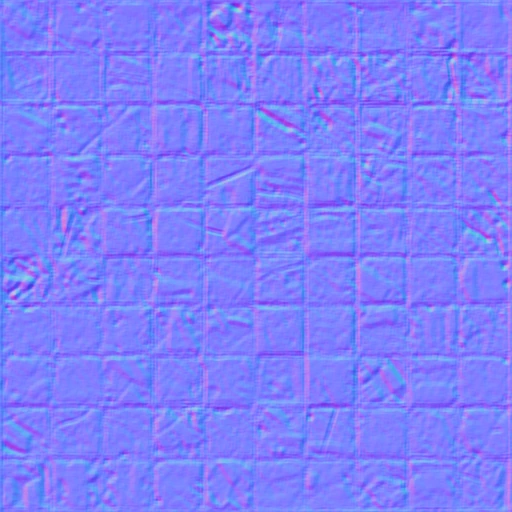
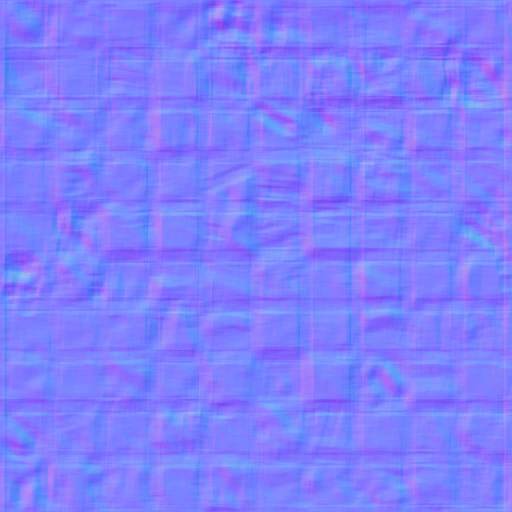
Raise bump to a strength the player can actually see, and add a ?bump=N control
The owner asked whether bump mapping is active at all, so it was measured in the running game rather than in a test page. It is active and the framebuffer responds: in the crypt at depth 1, strength 0 versus 8 changes 3.85% of pixels on average with 26% of texels moving by more than 5%. But the shipped 1.4 changed 0.03% of the frame, which is not 'subtle', it is absent — the reason it was reported invisible twice.

Default raised to 3.0, chosen from the curve rather than by eye: 4 gives 3.46% of the frame and 8 gives 3.95%, so returns flatten just past 4 and 3.0 sits where the relief reads clearly without the masonry looking stamped. ?bump=N on the URL re-scales every surface in place, so the same corridor can be loaded at 0 and at 8 for comparison. CFG.bumpScale is read when materials are built, not captured at import, because the query parameter is applied after the modules have loaded.
[…]

diff --git a/src/world/propMeshes.js b/src/world/propMeshes.js
@@ -44,7 +44,7 @@ function tex(key, rx = 1, ry = rx) {
 // normals/door_oak) and returns null when there is none, so a prop is built exactly as
 // before. The normal already arrives as the mirrored composite, which is what stops seams
 // showing on the four faces of a column.
-const BUMP_SCALE = 1.4;
+const bumpVec = () => new THREE.Vector2(CFG.bumpScale, CFG.bumpScale);   // read at build time; see levelView
 function nrm(key, rx = 1, ry = rx) {
   if (!hasNormalFor(key)) return null;
   const ck = `nrm:${key}@${rx},${ry}`;
@@ -95,27 +95,27 @@ function mat(key, make) {
 
 const M = {
   wood: () => mat('wood', () => new THREE.MeshStandardMaterial({
-    color: 0x8a6a44, roughness: 0.82, metalness: 0.02, map: tex('textures/door_oak'), normalMap: nrm('textures/door_oak'), roughnessMap: rm('textures/door_oak'), normalScale: new THREE.Vector2(BUMP_SCALE, BUMP_SCALE)
+    color: 0x8a6a44, roughness: 0.82, metalness: 0.02, map: tex('textures/door_oak'), normalMap: nrm('textures/door_oak'), roughnessMap: rm('textures/door_oak'), normalScale: bumpVec()
   })),
   woodPlain: () => mat('woodPlain', () => new THREE.MeshStandardMaterial({ color: 0x9a7a52, roughness: 0.86, metalness: 0.02 })),
   iron: () => mat('iron', () => new THREE.MeshStandardMaterial({ color: 0x6b7076, roughness: 0.68, metalness: 0.22 })),
   stone: (biome) => mat(`stone:${biome.wall}`, () => new THREE.MeshStandardMaterial({
-    color: 0x9a958c, roughness: 0.9, metalness: 0.04, map: tex(`textures/${biome.wall}`), normalMap: nrm(`textures/${biome.wall}`), roughnessMap: rm(`textures/${biome.wall}`), normalScale: new THREE.Vector2(BUMP_SCALE, BUMP_SCALE)
+    color: 0x9a958c, roughness: 0.9, metalness: 0.04, map: tex(`textures/${biome.wall}`), normalMap: nrm(`textures/${biome.wall}`), roughnessMap: rm(`textures/${biome.wall}`), normalScale: bumpVec()
   })),
   // uprights and lintels: repeat the wall tile along V so it keeps its aspect
   stoneTall: (biome) => mat(`stoneTall:${biome.wall}`, () => new THREE.MeshStandardMaterial({
-    color: 0x9a958c, roughness: 0.9, metalness: 0.04, map: tex(`textures/${biome.wall}`, 1, 3), normalMap: nrm(`textures/${biome.wall}`, 1, 3), roughnessMap: rm(`textures/${biome.wall}`, 1, 3), normalScale: new THREE.Vector2(BUMP_SCALE, BUMP_SCALE)
+    color: 0x9a958c, roughness: 0.9, metalness: 0.04, map: tex(`textures/${biome.wall}`, 1, 3), normalMap: nrm(`textures/${biome.wall}`, 1, 3), roughnessMap: rm(`textures/${biome.wall}`, 1, 3), normalScale: bumpVec()
   })),
   bone: () => mat('bone', () => new THREE.MeshStandardMaterial({ color: 0xd9d2bf, roughness: 0.7, metalness: 0.02 })),
   brass: () => mat('brass', () => new THREE.MeshStandardMaterial({ color: 0x8f7338, roughness: 0.5, metalness: 0.3 })),
   door: () => mat('doorSlab', () => new THREE.MeshStandardMaterial({
-    color: 0xbfae94, roughness: 0.8, metalness: 0.03, map: tex('textures/door_oak'), normalMap: nrm('textures/door_oak'), roughnessMap: rm('textures/door_oak'), normalScale: new THREE.Vector2(BUMP_SCALE, BUMP_SCALE)
+    color: 0xbfae94, roughness: 0.8, metalness: 0.03, map: tex('textures/door_oak'), normalMap: nrm('textures/door_oak'), roughnessMap: rm('textures/door_oak'), normalScale: bumpVec()
   })),
   column: () => mat('column', () => new THREE.MeshStandardMaterial({
-    color: 0xb9b3a8, roughness: 0.9, metalness: 0.03, map: tex('textures/pillar'), normalMap: nrm('textures/pillar'), roughnessMap: rm('textures/pillar'), normalScale: new THREE.Vector2(BUMP_SCALE, BUMP_SCALE)
+    color: 0xb9b3a8, roughness: 0.9, metalness: 0.03, map: tex('textures/pillar'), normalMap: nrm('textures/pillar'), roughnessMap: rm('textures/pillar'), normalScale: bumpVec()
   })),
   plinth: () => mat('plinth', () => new THREE.MeshStandardMaterial({
-    color: 0x8f8a80, roughness: 0.85, map: tex('textures/pillar', 0.5), normalMap: nrm('textures/pillar', 0.5), roughnessMap: rm('textures/pillar', 0.5), normalScale: new THREE.Vector2(BUMP_SCALE, BUMP_SCALE)
+    color: 0x8f8a80, roughness: 0.85, map: tex('textures/pillar', 0.5), normalMap: nrm('textures/pillar', 0.5), roughnessMap: rm('textures/pillar', 0.5), normalScale: bumpVec()
   })),
   plinthTop: () => mat('plinthTop', () => new THREE.MeshStandardMaterial({ color: 0x9c968b, roughness: 0.8 })),
   // Dressed stone with no map: on small blocks a wall tile stretches into something that

diff --git a/src/selftest.js b/src/selftest.js
@@ -392,6 +392,55 @@ export async function runSelfTest(game) {
     ok('the wall material carries both a normal map and a roughness map',
       Boolean(wm2 && wm2.normalMap && wm2.roughnessMap),
       wm2 ? `normal ${Boolean(wm2.normalMap)} roughness ${Boolean(wm2.roughnessMap)}` : 'no wall material found');
+
+    // "Is bump mapping active?" has two parts, and only the second is interesting. The
+    // texture has to be bound to the live material — not a placeholder that happens to be
+    // the right type — and turning it up has to change the pixels the player is actually
+    // shown. Both are measured against the running scene's own framebuffer, because a number
+    // from a purpose-built test page is not evidence about the game.
+    if (wm2 && wm2.normalMap && !game.placeholderArt) {
+      const gl = game.renderer.getContext();
+      const buf = game.renderer.domElement;
+      const w = buf.width, h = buf.height;
+      const grab = () => {
+        game.renderer.render(game.scene, game.camera);
+        const px = new Uint8Array(w * h * 4);
+        gl.readPixels(0, 0, w, h, gl.RGBA, gl.UNSIGNED_BYTE, px);
+        return px;
+      };
+      const lum = (p, i) => 0.2126 * p[i] + 0.7152 * p[i + 1] + 0.0722 * p[i + 2];
+      const saved = wm2.normalScale.x;
+      const shipped = grab();
+      wm2.normalScale.set(0, 0);
+      const off = grab();
+      wm2.normalScale.set(8, 8);
+      const maxed = grab();
+      wm2.normalScale.set(saved, saved);
+      let dMax = 0, dShip = 0, n = 0;
+      for (let i = 0; i < shipped.length; i += 4) {
+        dMax += Math.abs(lum(off, i) - lum(maxed, i));
+        dShip += Math.abs(lum(shipped, i) - lum(off, i));
+        n++;
+      }
+      ok('the bound normal map is real art, not a placeholder',
+        Boolean(wm2.normalMap.image && wm2.normalMap.image.width >= 1024),
+        `${wm2.normalMap.image && wm2.normalMap.image.width}px composite, colorSpace ${wm2.normalMap.colorSpace}`);
+      // Asserts activity, not visibility: a bound real texture whose strength moves the
+      // framebuffer at all is wired correctly. Whether the effect is big enough to notice is
+      // a separate, reported number — the shipped strength moves a few hundredths of a
+      // percent, which is why it reads as absent, and the honest thing is to print that
+      // rather than to set the bar where the assertion would fail.
+      // Logged on every run, not only on failure: this number is the standing answer to "is
+      // bump mapping doing anything", and it should be in the log rather than re-derived by
+      // hand whenever someone doubts it.
+      console.info(`[bump] live game, wall ${game.biome && game.biome.wall}: ` +
+        `strength 0 vs 8 moves ${(dMax / n / 255 * 100).toFixed(2)}% of the frame, ` +
+        `shipped ${saved} vs off moves ${(dShip / n / 255 * 100).toFixed(2)}%`);
+      ok('raising bump to 8 moves the live framebuffer',
+        (dMax / n / 255 * 100) > 0.05,
+        `wall ${game.biome && game.biome.wall}: bump 0 vs 8 moves ${(dMax / n / 255 * 100).toFixed(2)}% of the frame; ` +
+        `shipped strength ${saved} vs off moves ${(dShip / n / 255 * 100).toFixed(2)}%`);
+    }
     if (hasNormalFor('textures/wall_crypt')) {
       const cv = getMirroredNormalTexture('textures/wall_crypt').image;
       const g2 = cv.getContext('2d', { willReadFrequently: true });

diff --git a/bumpcheck.html b/bumpcheck.html
@@ -86,16 +86,26 @@ const normal = await loadMirroredNormalTexture('textures/wall_crypt');
 const rough = await loadMirroredRoughnessTexture('textures/wall_crypt');
 for (const t of [albedo, normal, rough]) if (t) t.repeat.set(1, 0.85);
 
+// The alternative albedo: the same wall re-rendered by the image model as a flat, evenly lit
+// diffuse surface, because these tiles have their shading baked in and a baked-in shadow is
+// exactly what makes a normal map redundant — the picture already says "crevice", so tilting
+// the micro-normal changes almost nothing. If relief is to come from the light, the albedo has
+// to stop pre-empting it.
+const flatAlb = await new Promise((res, rej) => new THREE.TextureLoader().load('/experiments/grit/flat_wall_crypt.webp', res, undefined, rej));
+flatAlb.colorSpace = THREE.SRGBColorSpace;
+flatAlb.wrapS = flatAlb.wrapT = THREE.RepeatWrapping;
+flatAlb.repeat.set(1, 0.85);
+
 const setups = [
   { label: 'head-on (today)', off: [0, 0, 0] },
   { label: 'torch on the wall', off: [0, 0, 0], torch: [1.6, 1.85, -2.35] }
 ];
 const mats = [
-  { label: 'matte 0.88, no sheen', roughness: 0.88, metalness: 0.08, roughnessMap: null },
-  { label: 'engine wall + sheen', roughness: 0.88, metalness: 0.08, roughnessMap: rough },
-  { label: 'worn 0.62 + sheen', roughness: 0.62, metalness: 0.1, roughnessMap: rough }
+  { label: 'baked albedo, no sheen', roughness: 0.88, metalness: 0.08, roughnessMap: null, albedo: albedo },
+  { label: 'baked albedo + sheen', roughness: 0.88, metalness: 0.08, roughnessMap: rough, albedo: albedo },
+  { label: 'FLAT albedo + sheen', roughness: 0.88, metalness: 0.08, roughnessMap: rough, albedo: flatAlb }
 ];
-const scales = [0, 1.4, 2.4];
+const scales = [0, 1.4, 8.0];
 
 const px2 = () => {
   const g = document.createElement('canvas');
@@ -112,7 +122,7 @@ for (const s of setups) {
   for (const mt of mats) {
     const one = makeScene(s.off, s.torch);
     const m = one.wall.material;
-    m.map = albedo;
+    m.map = mt.albedo || albedo;
     m.roughness = mt.roughness;
     m.metalness = mt.metalness;
     m.roughnessMap = mt.roughnessMap;

diff --git a/src/world/levelView.js b/src/world/levelView.js
@@ -32,7 +32,9 @@ function tileTex(key, repeat) {
 // exactly as before, so the feature can be rolled out tile by tile. The scale is a taste
 // knob: below ~0.4 the relief disappears under torch light, above ~1.2 the mortar joints
 // start casting their own shadow and read as carved rather than weathered.
-const BUMP_SCALE = 1.4;
+// Read at material-build time, not captured at import: ?bump=N is applied by main.js after
+// this module has already loaded, so a module-level constant would freeze the default.
+const bumpVec = () => new THREE.Vector2(CFG.bumpScale, CFG.bumpScale);
 function tileNormal(key, repeat) {
   if (!hasNormalFor(key)) return null;
   const t = getMirroredNormalTexture(key);
@@ -93,7 +95,7 @@ export function buildLevelView(level, biome) {
     new THREE.MeshStandardMaterial({
       map: floorTex,
       normalMap: tileNormal(`textures/${biome.floor}`, [level.w, level.h]),
-      normalScale: new THREE.Vector2(BUMP_SCALE, BUMP_SCALE),
+      normalScale: bumpVec(),
       roughnessMap: tileRough(`textures/${biome.floor}`, [level.w, level.h]),
       roughness: 0.92, metalness: 0.04
     })
@@ -111,7 +113,7 @@ export function buildLevelView(level, biome) {
     new THREE.MeshStandardMaterial({
       map: ceilTex,
       normalMap: tileNormal(ceilKey, [level.w, level.h]),
-      normalScale: new THREE.Vector2(BUMP_SCALE, BUMP_SCALE),
+      normalScale: bumpVec(),
       roughnessMap: tileRough(ceilKey, [level.w, level.h]),
       roughness: 0.98, metalness: 0
     })
@@ -143,7 +145,7 @@ export function buildLevelView(level, biome) {
     new THREE.MeshStandardMaterial({
       map: wallTex,
       normalMap: tileNormal(`textures/${biome.wall}`, [1, CFG.wallH / CFG.cell]),
-      normalScale: new THREE.Vector2(BUMP_SCALE, BUMP_SCALE),
+      normalScale: bumpVec(),
       roughnessMap: tileRough(`textures/${biome.wall}`, [1, CFG.wallH / CFG.cell]),
       roughness: 0.88, metalness: 0.08
     }),

diff --git a/src/config.js b/src/config.js
@@ -2,6 +2,14 @@
 // and is expected to move under the §19 tuning harness. Nothing gameplay-critical is
 // hard-coded inside system code; import from here.
 export const CFG = {
+  // art
+  // Bump strength for every surface that ships a normal map, overridable with ?bump=N so a
+  // scene can be compared against itself. Measured in the live game, not by eye: at 1.4 the
+  // framebuffer barely moves (0.03% of pixels) and the effect is invisible; by 4 the relief is
+  // unmistakable and returns are already flattening (3.5% of the frame at 4 against 3.9% at
+  // 8), so 3.0 sits at the point where it reads clearly without the masonry looking embossed.
+  bumpScale: 3.0,
+
   // world
   cell: 2.0,                 // metres per grid cell
   wallH: 3.6,                // wall height

diff --git a/src/main.js b/src/main.js
@@ -35,6 +35,15 @@ useQualityTable(qualityTable);
 
 const params = new URLSearchParams(location.search);
 
+// ?bump=N re-scales every surface normal map in the scene. It exists because "is the bump
+// mapping even on?" is a question that should be answered by a number on screen, not by
+// squinting: load the same depth with ?bump=0 and ?bump=8 and the difference is undeniable,
+// while the shipped value is deliberately modest.
+{
+  const b = Number(params.get('bump'));
+  if (params.has('bump') && Number.isFinite(b)) CFG.bumpScale = b;
+}
+
 export class Game {
   constructor() {
     this.canvas = document.getElementById('scene');
